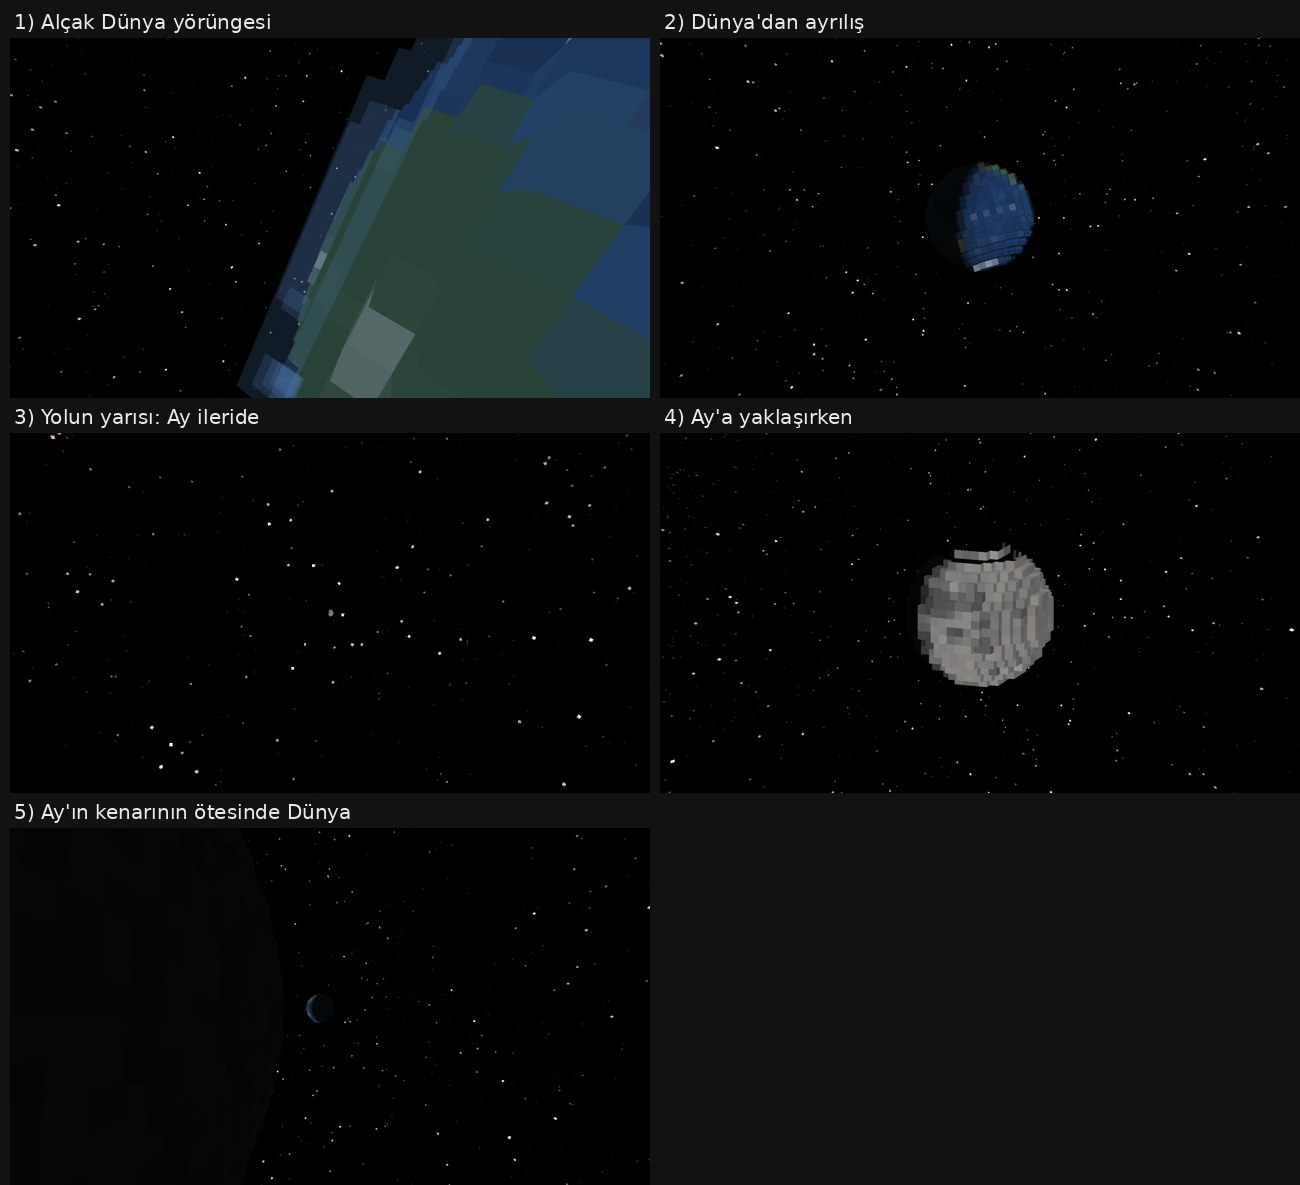
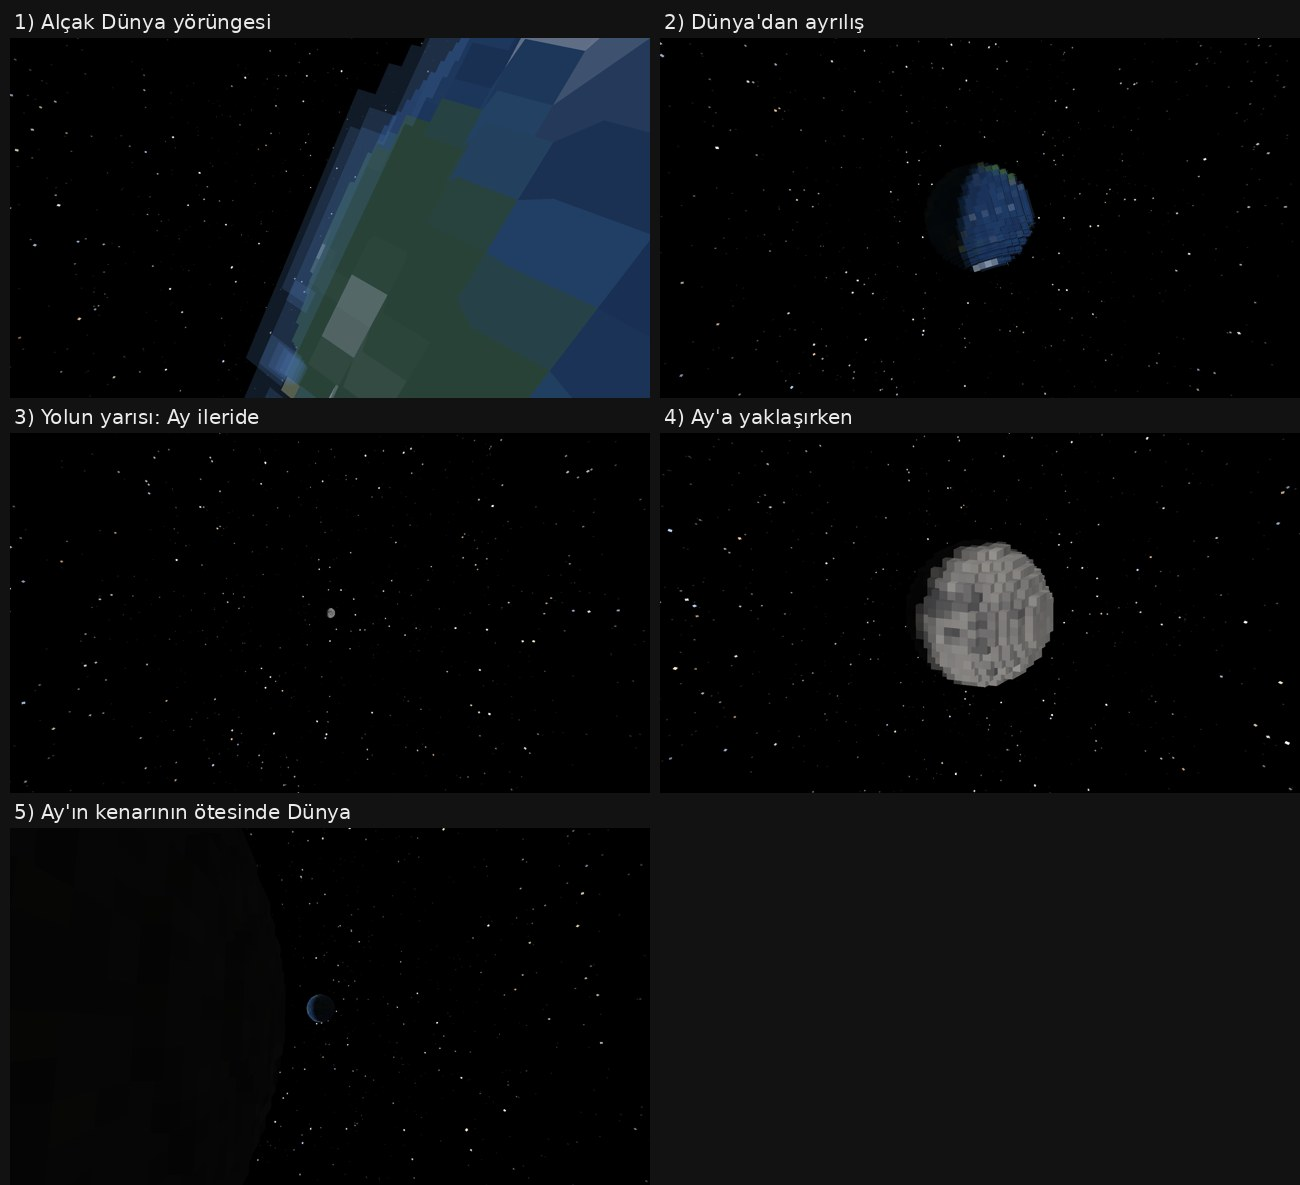
Space scene: Moon drawn at least 24 blocks, scene axes as toScene/fromScene; flattened bodies culled against the line of sight

diff --git a/src/main/java/com/pizzaparker07/spacebreaker/content/worldgen/SpaceSceneLayout.java b/src/main/java/com/pizzaparker07/spacebreaker/content/worldgen/SpaceSceneLayout.java
@@ -15,7 +15,7 @@ import java.util.function.Function;
  * Where the bodies of a travel scene (the Earth–Moon space dimension) stand in blocks, and how they are turned and lit:
  * the pure part of the space scene sky, so it can be checked without a client.
  * <p>
- * Scene frame: the central body's centre is block {@link #ORIGIN}; Minecraft x is ecliptic x, Minecraft y is ecliptic
+ * Scene frame: the central body's centre is block {@link #ORIGIN} (the scene dimension spans y −1024..1024); Minecraft x is ecliptic x, Minecraft y is ecliptic
  * north, Minecraft z is minus ecliptic y (right-handed, like the world). Distances follow {@link SceneScale}: the central
  * body at its drawn radius, the others at their real size for the local scale but never below {@link #MIN_RADIUS}.
  */
@@ -24,6 +24,13 @@ public final class SpaceSceneLayout {
     public static final Vector3d ORIGIN = new Vector3d(0, 0, 0);
     /** Smallest drawn radius of a body other than the central one, blocks: far moons stay visible targets. */
     public static final double MIN_RADIUS = 8;
+    /** The Moon is drawn at least this big (blocks) so it reads as a landable target; at the true local scale it is about 2. */
+    public static final double MOON_MIN_RADIUS = 24;
+
+    /** Smallest drawn radius for a body. */
+    public static double minRadius(String id) {
+        return id.equals("spacebreaker:moon") ? MOON_MIN_RADIUS : MIN_RADIUS;
+    }
 
     /**
      * One body of the scene.
@@ -40,13 +47,16 @@ public final class SpaceSceneLayout {
     private SpaceSceneLayout() {
     }
 
-    /** Ecliptic (m or unit) to the Minecraft scene frame. */
+    /**
+     * Ecliptic (m or unit) to the Minecraft scene frame: a proper rotation (determinant +1), so handedness is kept. The
+     * ship code uses the same pair.
+     */
     public static Vector3d toScene(Vec3 v) {
         return new Vector3d(v.x(), v.z(), -v.y());
     }
 
     /** Minecraft scene frame back to ecliptic. */
-    public static Vec3 toEcliptic(Vector3d v) {
+    public static Vec3 fromScene(Vector3d v) {
         return new Vec3(v.x, -v.z, v.y);
     }
 
@@ -65,7 +75,7 @@ public final class SpaceSceneLayout {
             Vec3 rel = sys.position(b, t).sub(p0);
             double d = rel.length();
             Vector3d centre = toScene(scale.toBlocks(rel)).add(ORIGIN);
-            double radius = id.equals(central) ? scale.radiusBlocks() : scale.displayRadius(b.radius(), Math.max(d, c.radius()), MIN_RADIUS);
+            double radius = id.equals(central) ? scale.radiusBlocks() : scale.displayRadius(b.radius(), Math.max(d, c.radius()), minRadius(id));
             BodyLook look = looks.apply(id);
             out.add(new Body(id, centre, radius, toScene(look.spinAxis()).normalize(), toScene(look.primeMeridian()).normalize(),
                     toScene(look.sunDirection()).normalize()));

diff --git a/src/main/java/com/pizzaparker07/spacebreaker/client/sky/BlockyBodyRenderer.java b/src/main/java/com/pizzaparker07/spacebreaker/client/sky/BlockyBodyRenderer.java
@@ -379,13 +379,14 @@ public final class BlockyBodyRenderer {
         Vector3f screenRight = new Vector3f(look).cross(screenUp).normalize();
         List<BlockyBodyMesh.Face> faces = BlockyBodyMesh.body(style, n);
         int[] colours = colours(map, faces, false);
+        boolean flat = depthKept(body) < 0.5F;
         int count = 0;
         for (int i = 0; i < faces.size(); i++) {
             BlockyBodyMesh.Face f = faces.get(i);
             Vector3f normal = rot.transform(new Vector3f(f.normal()));
             Vector3f centre = rot.transform(new Vector3f(f.center())).mul(body.radius()).add(body.center());
-            if (normal.dot(centre) >= 0) {
-                continue; // faces away from the viewer
+            if (facesAway(normal, centre, look, flat)) {
+                continue;
             }
             float light = BlockyBodyMesh.light(rot.transform(new Vector3f(f.surface())), normal, s, night)
                     * BlockyBodyMesh.blockShade(normal.dot(screenUp), normal.dot(screenRight)) * tint;
@@ -450,12 +451,12 @@ public final class BlockyBodyRenderer {
         if (withBody) {
             List<BlockyBodyMesh.Face> faces = BlockyBodyMesh.body(style, n);
             int[] colours = colours(map, faces, false);
+            boolean flat = viewDir == null && depthKept(body) < 0.5F;
             for (int i = 0; i < faces.size(); i++) {
                 BlockyBodyMesh.Face f = faces.get(i);
                 Vector3f normal = rot.transform(new Vector3f(f.normal()));
                 Vector3f centre = rot.transform(new Vector3f(f.center())).mul(body.radius()).add(body.center());
-                float toward = viewDir == null ? normal.dot(centre) : normal.dot(viewDir);
-                if (toward >= 0) {
+                if (viewDir != null ? normal.dot(viewDir) >= 0 : facesAway(normal, centre, look, flat)) {
                     continue; // faces away from the viewer
                 }
                 float light = BlockyBodyMesh.light(rot.transform(new Vector3f(f.surface())), normal, s, night)
@@ -501,6 +502,14 @@ public final class BlockyBodyRenderer {
      * while the small depth left keeps its faces correctly in front of each other.
      */
     static final float DEPTH_KEPT = 0.04F;
+
+    /**
+     * Whether a face is turned away from the viewer. A flattened body is seen almost straight on, so its faces are judged
+     * against the line of sight to its centre; a full-depth (big, near) body face by face from the camera.
+     */
+    private static boolean facesAway(Vector3f normal, Vector3f centre, Vector3f look, boolean flat) {
+        return flat ? normal.dot(look) >= 0 : normal.dot(centre) >= 0;
+    }
 
     /**
      * Depth kept for a body: flattened while it looks small (up to about 17° in radius), fully round once it fills much

diff --git a/src/testmod/java/com/pizzaparker07/spacebreaker/testmod/sky/SkyGameTests.java b/src/testmod/java/com/pizzaparker07/spacebreaker/testmod/sky/SkyGameTests.java
@@ -136,12 +136,12 @@ public final class SkyGameTests {
         helper.assertTrue(earth.center().length() < 1e-6 && earth.radius() == 128, "Earth at the origin, 128 blocks: " + earth);
         double d = moon.center().length();
         helper.assertTrue(d > 2000 && d < 2400, "the Moon about 2,200 blocks out: " + d);
-        helper.assertTrue(moon.radius() >= com.pizzaparker07.spacebreaker.content.worldgen.SpaceSceneLayout.MIN_RADIUS, "the Moon stays a visible target: " + moon.radius());
+        helper.assertTrue(moon.radius() >= com.pizzaparker07.spacebreaker.content.worldgen.SpaceSceneLayout.MOON_MIN_RADIUS, "the Moon reads as a landable target: " + moon.radius());
         helper.assertTrue(Math.abs(moon.center().y) < d * 0.1, "the Moon stays near the ecliptic plane (scene horizontal): " + moon.center().y);
         double tilt = Math.toDegrees(Math.acos(earth.pole().y));
         helper.assertTrue(Math.abs(tilt - 23.4) < 1.0, "Earth's pole leans 23.4 degrees from ecliptic north: " + tilt);
         var v = new com.pizzaparker07.spacebreaker.core.astro.Vec3(1, 2, 3);
-        var back = com.pizzaparker07.spacebreaker.content.worldgen.SpaceSceneLayout.toEcliptic(
+        var back = com.pizzaparker07.spacebreaker.content.worldgen.SpaceSceneLayout.fromScene(
                 com.pizzaparker07.spacebreaker.content.worldgen.SpaceSceneLayout.toScene(v));
         helper.assertTrue(back.sub(v).length() < 1e-9, "scene axes round-trip");
         helper.succeed();
